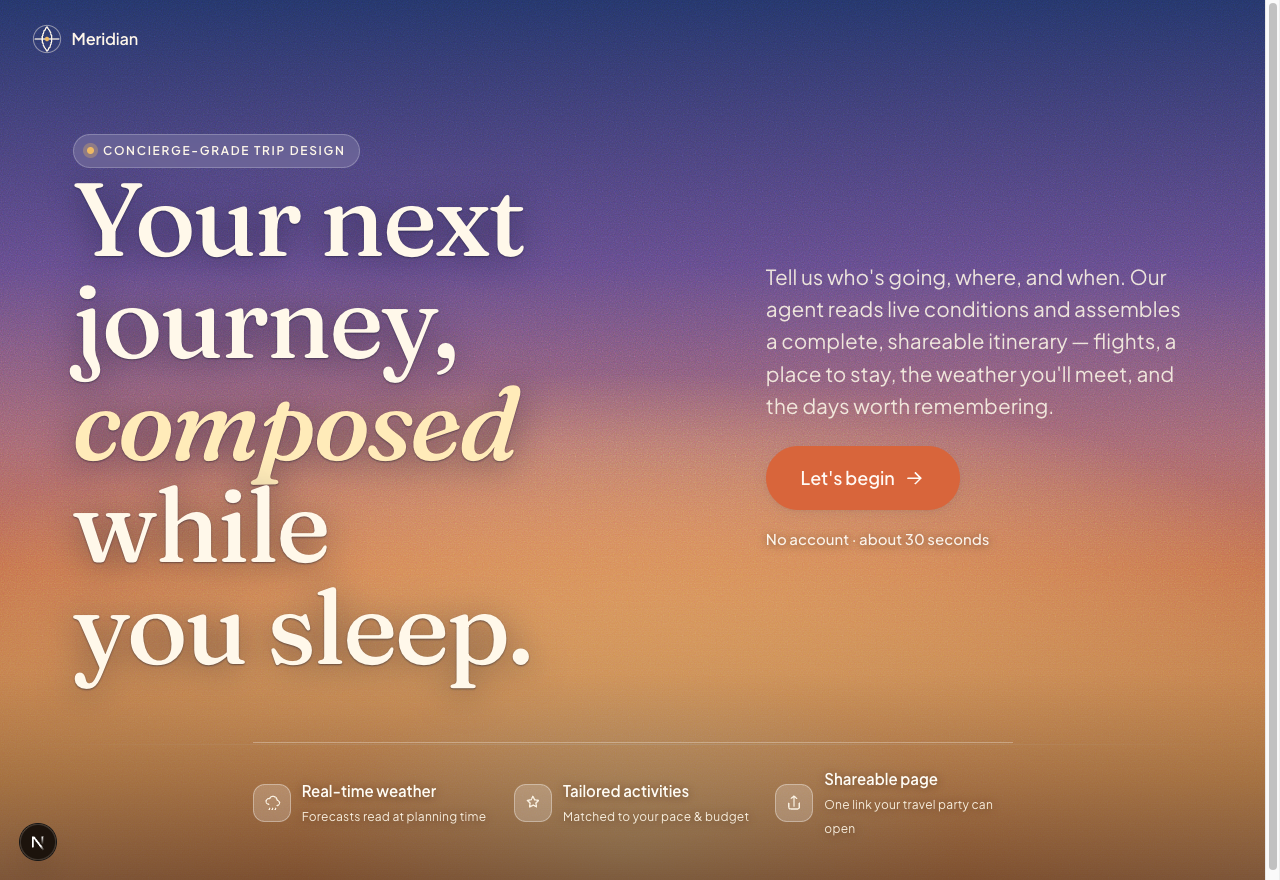
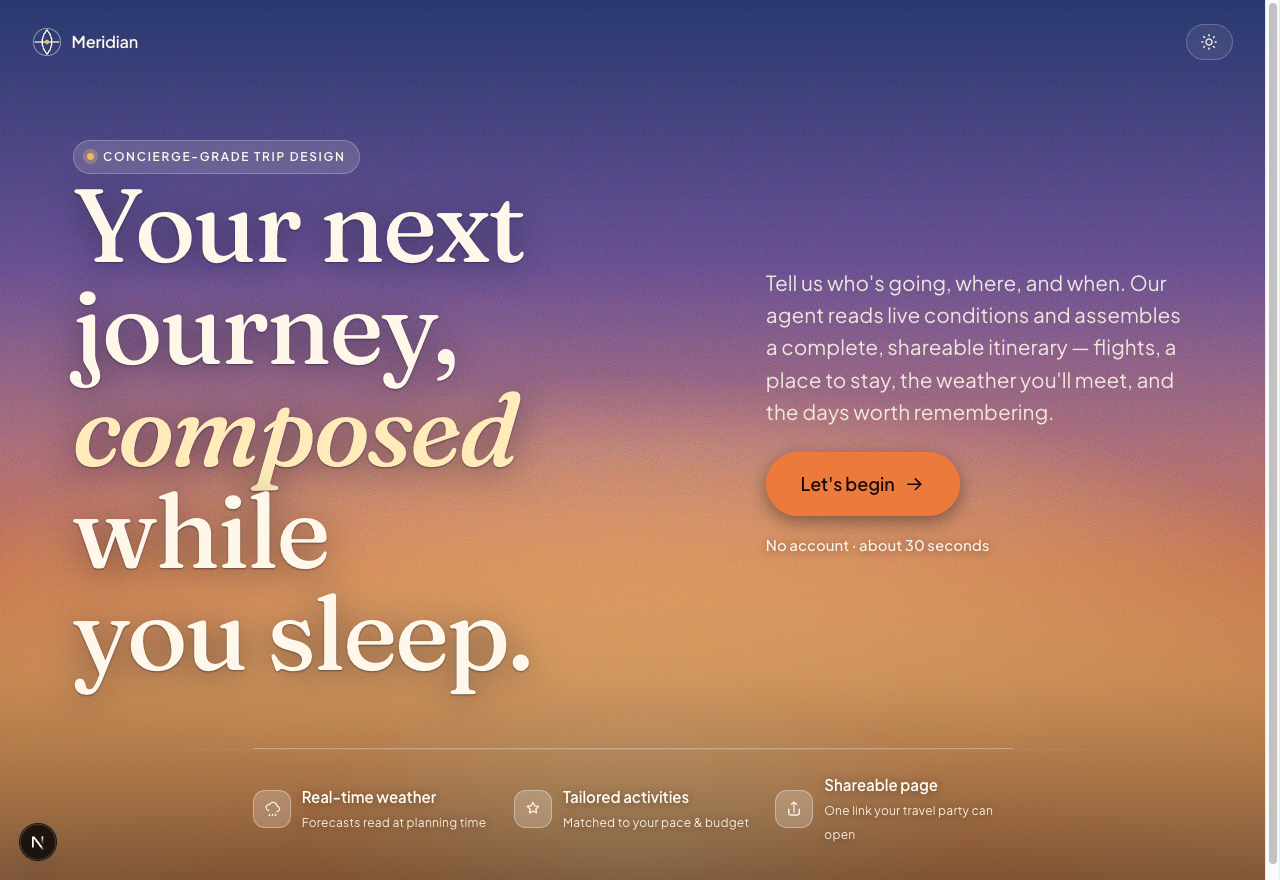
Refresh screenshots in dark mode, sync README
- Re-capture landing/form/itinerary at a uniform 1280x880 in dark mode.
- README: note light/dark theme, correct rate limit (3 / 6h), add themeToggle
  to project structure, fix font label (Plus Jakarta Sans).

diff --git a/README.md b/README.md
@@ -68,7 +68,7 @@ Form ──submit──▶ addTrip (Server Action)
 | Weather | **OpenWeatherMap** (geocoding + 5-day forecast) |
 | Storage | **Upstash Redis** (trip data) · **Vercel Blob** (image) |
 | Safety | IP rate limiting (Upstash) · prompt-injection hardening · Zod bounds |
-| UX | Server Actions + `useActionState` (inline error states) |
+| UX | Server Actions + `useActionState` (inline error states) · light/dark theme (system-aware, toggle) |
 
 ## Getting started
 
@@ -97,12 +97,13 @@ npm run lint
 ```
 app/
   page.tsx               # landing hero + trip form (client toggle)
-  layout.tsx             # fonts (Fraunces + Inter), theme
+  layout.tsx             # fonts (Fraunces + Plus Jakarta Sans), light/dark theme init
   globals.css            # "Dusk Horizon" tokens + component styles
   trips/[id]/page.tsx    # itinerary result (server component)
   trips/[id]/not-found.tsx
 components/
   tripForm.tsx           # the form (Server Action + useActionState)
+  themeToggle.tsx        # light/dark switch (persists to localStorage)
   shareButton.tsx        # copy-link button
 lib/
   actions.ts             # addTrip Server Action (orchestration)
@@ -119,8 +120,8 @@ lib/
 - OpenWeatherMap's free forecast is ~5 days out, so far-future trips get a general
   weather summary rather than an exact forecast.
 - Flights/hotels are fabricated by the LLM — there's no real inventory or booking.
-- Each submit calls an LLM + image model; the per-IP rate limit (5/hour) keeps cost
-  and abuse in check.
+- Each submit calls an LLM + image model; a per-IP rate limit (3 per 6 hours) plus
+  low-quality image generation keep cost and abuse in check.
 
 ---
 